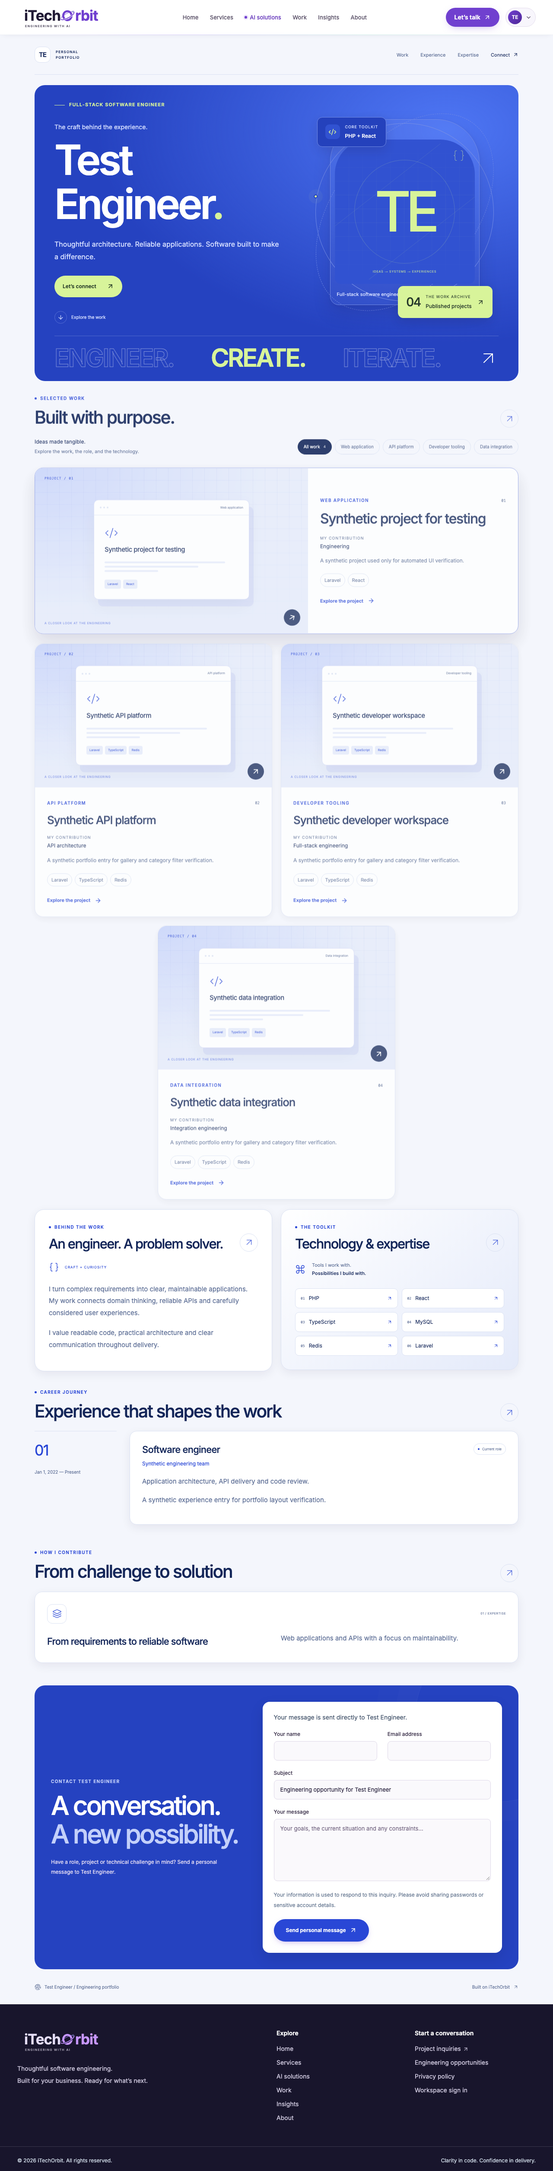
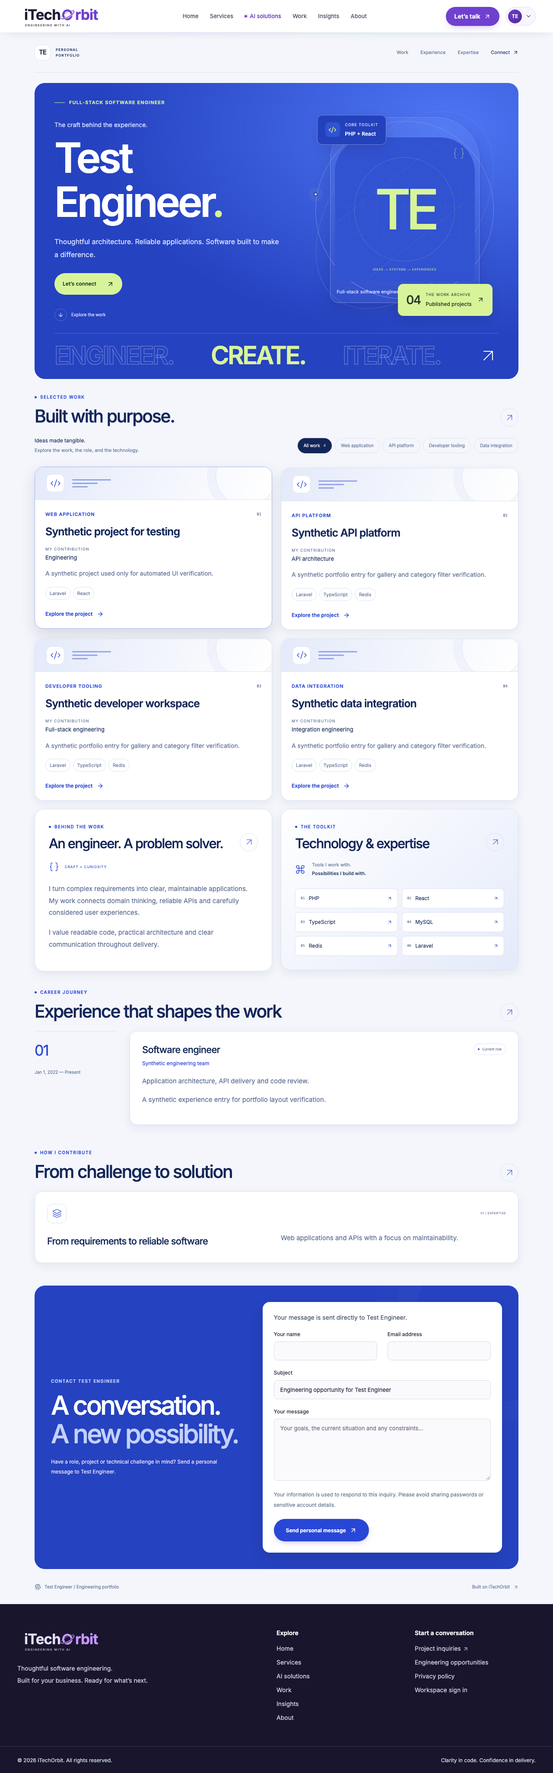
Simplify project cards and preserve compact uploaded screenshots

diff --git a/resources/css/portfolio.css b/resources/css/portfolio.css
@@ -111,16 +111,6 @@
 .pf-project:is(:hover,:focus-within) { transform:translateY(-5px); border-color:color-mix(in srgb,var(--pf-accent) 45%,var(--pf-line)); box-shadow:0 20px 42px #21143a29; }
 .pf-project-image { position:relative; display:block; aspect-ratio:1.65; overflow:hidden; background:var(--pf-soft); }
 .pf-project-image>img { height:100%; width:100%; object-fit:cover; transition:transform .4s; } .pf-project:hover .pf-project-image>img { transform:scale(1.025); }
-.pf-project-placeholder { height:100%; position:relative; display:flex; align-items:center; justify-content:center; color:var(--pf-accent); background:radial-gradient(ellipse at 0% 0%,var(--pf-tint),transparent 60%),var(--pf-soft); padding:44px 38px; }
-.pf-project-art-grid { position:absolute; inset:0; background-image:linear-gradient(color-mix(in srgb,var(--pf-accent) 7%,transparent) 1px,transparent 1px),linear-gradient(90deg,color-mix(in srgb,var(--pf-accent) 7%,transparent) 1px,transparent 1px); background-size:28px 28px; mask-image:linear-gradient(#000,transparent); }
-.pf-art-coordinate { position:absolute; top:19px; left:22px; font:8px ui-monospace,monospace; letter-spacing:.1em; }
-.pf-art-caption { position:absolute; bottom:18px; left:22px; font-size:7px; letter-spacing:.1em; opacity:.7; }
-.pf-art-window { position:relative; width:100%; max-width:360px; border:1px solid color-mix(in srgb,var(--pf-accent) 20%,var(--pf-card)); border-radius:11px; background:var(--pf-card); box-shadow:10px 16px 0 color-mix(in srgb,var(--pf-accent) 9%,transparent),0 15px 40px #2012300d; transition:transform .3s; }
-.pf-project:hover .pf-art-window { transform:translateY(-5px); }
-.pf-art-toolbar { padding:12px 13px; display:flex; align-items:center; gap:4px; border-bottom:1px solid var(--pf-line); } .pf-art-toolbar i { width:4px; height:4px; background:var(--pf-line); border-radius:50%; } .pf-art-toolbar>span { margin-left:auto; color:var(--pf-muted); font-size:7px; }
-.pf-art-body { padding:24px; } .pf-art-body>svg { margin-bottom:12px; } .pf-art-body>strong { display:block; font-size:15px; font-weight:500; letter-spacing:-.03em; color:var(--pf-ink); line-height:1.4; }
-.pf-art-lines { display:grid; gap:6px; margin-top:18px; } .pf-art-lines i { display:block; height:4px; width:90%; background:var(--pf-soft); border-radius:2px; } .pf-art-lines i:nth-child(2) { width:70%; } .pf-art-lines i:nth-child(3) { width:40%; }
-.pf-art-tech { display:flex; flex-wrap:wrap; gap:5px; margin-top:18px; } .pf-art-tech>span { padding:5px 7px; font-size:7px; border-radius:4px; background:var(--pf-soft); }
 .pf-project-arrow { position:absolute; right:18px; bottom:18px; width:38px; height:38px; display:grid; place-items:center; background:var(--pf-ink); color:var(--pf-card); border-radius:50%; transition:transform .2s; } .pf-project:hover .pf-project-arrow { transform:rotate(45deg); }
 .pf-project-content { padding:28px; align-self:center; min-width:0; } .pf-project-meta { display:flex; justify-content:space-between; align-items:center; gap:15px; } .pf-project-meta>.pf-kicker { font-size:8px; margin:0; } .pf-project-meta>span { color:var(--pf-muted); font:9px ui-monospace,monospace; }
 .pf-project h3 { font-size:26px; letter-spacing:-.045em; font-weight:500; line-height:1.2; margin-top:15px; overflow-wrap:anywhere; } .pf-project h3 a { color:inherit; }
@@ -185,7 +175,7 @@
 .pf-blueprint .pf-hero { gap:38px; padding:32px 0 36px; }
 .pf-terminal-bar { display:flex; justify-content:space-between; gap:15px; padding:20px 0 0; font:8px/1.7 ui-monospace,monospace; letter-spacing:.08em; color:var(--pf-muted); } .pf-terminal-bar>span:first-child { display:flex; align-items:center; gap:10px; } .pf-terminal-dot { width:5px; height:5px; border-radius:50%; background:var(--pf-accent); }
 .pf-blueprint :is(.pf-hero-label,.pf-kicker,.pf-project-meta,.pf-project-filters button) { font-family:ui-monospace,monospace; }
-.pf-blueprint :is(.pf-identity-card,.pf-floating-chip,.pf-monogram,.pf-portrait,.pf-project,.pf-services>article,.pf-contact,.pf-skills>span,.pf-button,.pf-split>.pf-section,.pf-experience-body,.pf-art-window) { border-radius:4px; }
+.pf-blueprint :is(.pf-identity-card,.pf-floating-chip,.pf-monogram,.pf-portrait,.pf-project,.pf-services>article,.pf-contact,.pf-skills>span,.pf-button,.pf-split>.pf-section,.pf-experience-body) { border-radius:4px; }
 .pf-blueprint .pf-orbit { border-radius:0; transform:none; border-style:dashed; } .pf-blueprint .pf-orbit-one { inset:2% -1%; } .pf-blueprint .pf-orbit-two { inset:17% -7%; }
 .pf-blueprint .pf-floating-stack { top:0; left:0; } .pf-blueprint .pf-floating-work { bottom:48px; right:-10px; }
 .pf-blueprint .pf-button:not(.pf-button-secondary) { color:#112a23; }
@@ -226,8 +216,6 @@
 .pf-editorial .pf-contact { --pf-ink:#fffdf7; }
 .pf-spotlight .pf-contact { --pf-ink:#fff; }
 .pf-contact>div>p:not(.pf-kicker),.pf-contact-note { color:var(--pf-muted); }
-.pf-projects>.pf-project:last-child:nth-child(2) { flex-basis:100%; display:grid; grid-template-columns:1fr 1fr; }
-.pf-projects>.pf-project:last-child:nth-child(2) .pf-project-image { height:100%; }
 .pf-editorial-intro>.pf-section:only-child { grid-column:1 / -1; }
 .pf-executive-grid>.pf-section:not(#experience),.pf-editorial-intro>.pf-section { align-self:start; }
 .pf-split:empty,.pf-editorial-intro:empty,.pf-executive-grid:empty { display:none; }
@@ -246,7 +234,7 @@
 .pf-hero-label { font-size:11px; } .pf-project-role { font-size:12px; } .pf-project-role>span { font-size:9px; }
 @keyframes pf-chip-float { from { transform:translateY(0); } to { transform:translateY(-7px); } }
 @keyframes pf-signal { 50% { box-shadow:0 0 0 12px color-mix(in srgb,var(--pf-accent) 5%,transparent); } }
-@keyframes pf-reveal { from { opacity:.55; translate:0 14px; } to { opacity:1; translate:0 0; } }
+@keyframes pf-reveal { from { opacity:1; translate:0 14px; } to { opacity:1; translate:0 0; } }
 /* Dark surfaces need a visible edge light as well as depth. */
 .pf-blueprint :is(.pf-project,.pf-split>.pf-section,.pf-services>article,.pf-experience-body) { box-shadow:0 8px 24px #00000038,0 0 0 1px #9be4c408; }
 .pf-blueprint .pf-project:is(:hover,:focus-within),.pf-blueprint .pf-services>article:hover,.pf-blueprint .pf-experience-body:hover { box-shadow:0 18px 36px #00000055,0 0 22px #a2efc91c; }
@@ -258,7 +246,7 @@
   .pf-floating-chip strong { font-size:10px; }
   .pf-facts { gap:30px; padding:24px; } .pf-facts-label { padding-right:22px; } .pf-facts-arrow { display:none; }
   .pf-split>.pf-section { padding:26px; } .pf-split .pf-section-heading h2 { font-size:27px; }
-  .pf-project:first-child .pf-project-content { padding:26px; } .pf-project:first-child h3 { font-size:27px; } .pf-project-placeholder { padding:42px 25px; }
+  .pf-project:first-child .pf-project-content { padding:26px; } .pf-project:first-child h3 { font-size:27px; }
   .pf-experience { grid-template-columns:145px 1fr; gap:22px; }
   .pf-experience-top { flex-wrap:wrap; } .pf-services { grid-template-columns:repeat(2,minmax(0,1fr)); }
   .pf-services>article:only-child { grid-template-columns:1fr 1.5fr; gap:20px; } .pf-services>article:only-child .pf-service-top { grid-column:1 / -1; margin-bottom:0; }
@@ -278,7 +266,7 @@
   .pf-section { padding:23px 0; } .pf-section-heading { gap:15px; margin-bottom:22px; } .pf-section-heading h2 { font-size:29px; } .pf-section-glyph { width:34px; height:34px; } .pf-section-glyph svg { width:20px; }
   .pf-split,.pf-editorial-intro,.pf-executive-grid { grid-template-columns:1fr; gap:18px; } .pf-split>.pf-section { padding:25px 22px; } .pf-split .pf-section-heading h2 { font-size:27px; } .pf-skills { gap:7px; } .pf-skills>span { font-size:11px; padding:12px 10px; }
   .pf-projects { gap:18px; } .pf-projects>.pf-project { flex-basis:100%; } .pf-project:first-child,.pf-spotlight .pf-project:first-child,.pf-editorial .pf-project,.pf-projects>.pf-project:last-child:nth-child(2) { display:block; } .pf-project-image { aspect-ratio:1.35; } .pf-project:first-child .pf-project-image { min-height:0; height:auto; } .pf-project-content,.pf-project:first-child .pf-project-content { padding:24px; } .pf-project h3,.pf-project:first-child h3 { font-size:25px; }
-  .pf-project-placeholder { padding:42px 30px; } .pf-art-body { padding:22px; } .pf-art-body>strong { font-size:14px; } .pf-art-lines { gap:5px; margin-top:13px; } .pf-art-tech { margin-top:12px; } .pf-art-caption { font-size:6px; }
+
   .pf-project-toolbar>p>span { display:none; } .pf-project-filters button { padding:9px 11px; font-size:9px; }
   .pf-experience { grid-template-columns:1fr; gap:0; } .pf-experience-index { display:flex; align-items:center; gap:18px; padding:15px 0; } .pf-experience-index>span { font-size:24px; margin:0; } .pf-date { max-width:none; } .pf-experience-body { padding:22px; } .pf-experience h3 { font-size:21px; }
   .pf-services { grid-template-columns:1fr; } .pf-services>article,.pf-services>article:only-child { display:block; padding:25px; } .pf-services>article:only-child .pf-service-top,.pf-service-top { margin-bottom:24px; } .pf-services>article:only-child h3 { margin-bottom:15px; }
@@ -288,7 +276,7 @@
   .pf-editorial-masthead>span:last-child { display:none; } .pf-editorial .pf-hero h1 { font-size:clamp(52px,15cqw,80px); } .pf-editorial .pf-hero-prelude { font-size:18px; } .pf-editorial .pf-floating-stack { left:0; } .pf-editorial-intro { gap:0; padding:0; } .pf-editorial .pf-project-image { aspect-ratio:1.3; } .pf-editorial .pf-project:nth-child(even) .pf-project-image { order:initial; } .pf-editorial .pf-project-content { padding:24px 0 0; } .pf-editorial .pf-project:first-child .pf-project-content { padding:24px 0 0; } .pf-editorial .pf-project h3,.pf-editorial .pf-project:first-child h3 { font-size:32px; }
   .pf-spotlight-stage .pf-identity-stage { width:min(100%,300px); padding:25px 18px; } .pf-spotlight-stage .pf-floating-stack { left:0; top:15px; } .pf-spotlight-stage .pf-floating-work { right:0; bottom:0; } .pf-spotlight-ticker { gap:10px; padding:18px 0 23px; } .pf-spotlight-ticker>span { font-size:clamp(16px,4.3cqw,30px); } .pf-spotlight-ticker svg { width:25px; height:25px; }
 }
-@keyframes pf-appear { from { opacity:.5; translate:0 6px; } to { opacity:1; translate:0 0; } }
+@keyframes pf-appear { from { opacity:1; translate:0 6px; } to { opacity:1; translate:0 0; } }
 @media(prefers-reduced-motion:reduce) { .portfolio-view * { animation:none !important; transition:none !important; } }
 
 /* Personal contact belongs to the portfolio owner, independently of the agency form. */
@@ -310,3 +298,44 @@
 .pf-contact-page { min-height:100vh; }
 .pf-contact-page .pf-personal-contact { margin-top:40px; }
 @container(max-width:800px) { .pf-personal-contact { grid-template-columns:1fr; gap:28px; } .pf-contact-form { width:100%; padding:22px; } .pf-contact-page .pf-personal-contact { margin-top:24px; } }
+
+/* A missing screenshot is a compact accent, never a second copy of the project. */
+.pf-projects>.pf-project.is-text-project { display:flex; flex-direction:column; flex-basis:calc(50% - 10px); }
+.pf-projects>.pf-project.is-text-project:only-child { flex-basis:100%; max-width:760px; }
+.pf-project-accent { position:relative; display:flex; align-items:center; gap:18px; height:76px; flex-shrink:0; padding:16px 26px; overflow:hidden; background:linear-gradient(110deg,var(--pf-soft),var(--pf-card)); border-bottom:1px solid var(--pf-line); }
+.pf-project-accent-icon { display:grid; place-items:center; width:42px; height:42px; border:1px solid var(--pf-line); background:var(--pf-card); border-radius:12px; color:var(--pf-accent); flex-shrink:0; }
+.pf-project-accent-lines { display:grid; gap:5px; width:90px; opacity:.45; }
+.pf-project-accent-lines>i { height:3px; border-radius:2px; background:var(--pf-accent); }
+.pf-project-accent-lines>i:nth-child(2) { width:65%; } .pf-project-accent-lines>i:last-child { width:40%; }
+.pf-project-accent-orbit { position:absolute; width:140px; height:140px; border:1px solid var(--pf-line); border-radius:50%; right:-10px; top:-50px; box-shadow:0 0 0 20px color-mix(in srgb,var(--pf-accent) 4%,transparent); }
+.pf-project.is-text-project .pf-project-content { align-self:stretch; display:flex; flex-direction:column; flex:1; padding:24px; }
+.pf-project.is-text-project h3,.pf-project.is-text-project:first-child h3 { font-size:25px; font-weight:600; letter-spacing:-.035em; line-height:1.25; color:var(--pf-ink); }
+.pf-project.is-text-project .pf-project-excerpt { font-size:14px; line-height:1.8; color:var(--pf-muted); }
+.pf-project.is-text-project .pf-project-role { font-size:13px; }
+.pf-project.is-text-project .pf-project-meta>.pf-kicker { font-size:11px; letter-spacing:.08em; }
+.pf-project.is-text-project .pf-text-link { margin-top:auto; padding-top:22px; font-size:12px; }
+.pf-project.is-text-project .pf-project-tags { margin-bottom:2px; }
+.pf-editorial .pf-projects>.pf-project.is-text-project { flex-basis:100%; max-width:none; }
+.pf-editorial .pf-project.is-text-project h3 { font-weight:400; font-size:30px; }
+@container(max-width:680px) {
+  .pf-projects>.pf-project.is-text-project { flex-basis:100%; }
+  .pf-project-accent { height:64px; padding:12px 22px; }
+  .pf-project-accent-icon { width:36px; height:36px; border-radius:9px; }
+  .pf-project.is-text-project .pf-project-content { padding:22px; }
+  .pf-project.is-text-project h3,.pf-project.is-text-project:first-child h3 { font-size:24px; }
+}
+
+/* Uploaded screenshots remain genuine, uncropped, clickable project thumbnails. */
+.pf-projects>.pf-project.has-project-image { display:flex; flex-direction:column; flex-basis:calc(50% - 10px); }
+.pf-projects>.pf-project.has-project-image:only-child { flex-basis:100%; max-width:760px; }
+.pf-project.has-project-image .pf-project-image { height:190px; min-height:0; aspect-ratio:auto; width:100%; flex-shrink:0; border-bottom:1px solid var(--pf-line); background:var(--pf-soft); }
+.pf-project.has-project-image .pf-project-image>img { object-fit:contain; padding:12px; }
+.pf-project.has-project-image .pf-project-content { display:flex; flex-direction:column; flex:1; align-self:stretch; padding:24px; }
+.pf-project.has-project-image .pf-project-arrow { width:30px; height:30px; right:12px; bottom:12px; }
+.pf-project.has-project-image .pf-project-arrow svg { width:16px; height:16px; }
+.pf-project.has-project-image .pf-text-link { margin-top:auto; padding-top:22px; }
+.pf-editorial .pf-projects>.pf-project.has-project-image { flex-basis:100%; max-width:none; }
+@container(max-width:680px) { .pf-projects>.pf-project.has-project-image { flex-basis:100%; } .pf-project.has-project-image .pf-project-image { height:160px; } }
+
+.pf-project.has-project-image h3,.pf-project.has-project-image:first-child h3 { font-size:25px; line-height:1.25; color:var(--pf-ink); }
+.pf-project.has-project-image .pf-project-excerpt { font-size:14px; line-height:1.8; }

diff --git a/resources/js/components/portfolio/PortfolioView.tsx b/resources/js/components/portfolio/PortfolioView.tsx
@@ -51,8 +51,8 @@ function About({ profile }: { profile: Profile }) {
 function Experience({ profile }: { profile: Profile }) {
   return profile.experiences.length ? <Section id="experience" label="Career journey" title="Experience that shapes the work"><div className="pf-timeline">{profile.experiences.map((experience, i) => <article key={i} className="pf-experience"><div className="pf-experience-index"><span>{String(i + 1).padStart(2, '0')}</span><p className="pf-date">{experience.join_date ? dateLabel(experience.join_date) : ''}{experience.join_date && ' — '}{experience.resign_date ? dateLabel(experience.resign_date) : 'Present'}</p></div><div className="pf-experience-body"><div className="pf-experience-top"><div><h3>{experience.designation}</h3><p className="pf-organization">{experience.organization}</p></div>{!experience.resign_date && <span className="pf-current-role"><span />Current role</span>}</div><Rich html={experience.responsibilities} /><Rich html={experience.descriptions} /></div></article>)}</div></Section> : null;
 }
-function ProjectVisual({ project, index }: { project: Project; index: number }) {
-  return <div className="pf-project-placeholder" aria-hidden="true"><div className="pf-project-art-grid" /><span className="pf-art-coordinate">PROJECT / {String(index + 1).padStart(2, '0')}</span><div className="pf-art-window"><div className="pf-art-toolbar"><i /><i /><i /><span>{project.category || 'Engineering'}</span></div><div className="pf-art-body"><Code2 size={32} strokeWidth={1.2} /><strong>{project.name}</strong><div className="pf-art-lines"><i /><i /><i /></div><div className="pf-art-tech">{project.technologies.slice(0, 3).map(technology => <span key={technology}>{technology}</span>)}</div></div></div><span className="pf-art-caption">A CLOSER LOOK AT THE ENGINEERING</span></div>;
+function ProjectVisual() {
+  return <div className="pf-project-accent" aria-hidden="true"><span className="pf-project-accent-icon"><Code2 size={25} strokeWidth={1.4} /></span><span className="pf-project-accent-lines"><i /><i /><i /></span><span className="pf-project-accent-orbit" /></div>;
 }
 function Projects({ projects }: { projects: Project[] }) {
   const [category, setCategory] = useState<string | null>(null);
@@ -61,7 +61,7 @@ function Projects({ projects }: { projects: Project[] }) {
   return projects.length ? <Section id="projects" label="Selected work" title="Built with purpose.">
     <div className="pf-project-toolbar"><p>Ideas made tangible.<span> Explore the work, the role, and the technology.</span></p>{categories.length > 1 && <div className="pf-project-filters" role="group" aria-label="Filter portfolio projects"><button type="button" aria-pressed={category === null} onClick={() => setCategory(null)}>All work <span>{projects.length}</span></button>{categories.map(item => <button key={item} type="button" aria-pressed={category === item} onClick={() => setCategory(item)}>{item}</button>)}</div>}</div>
     <p className="sr-only" role="status">{visible.length} portfolio projects shown</p>
-    <div className="pf-projects">{visible.map(project => <article key={project.id} className="pf-project"><a className="pf-project-image" href={project.url} aria-label={`View ${project.name}`}>{project.image ? <img src={project.image} width={720} height={480} loading="lazy" alt={`${project.name} project screenshot`} /> : <ProjectVisual project={project} index={projects.indexOf(project)} />}<span className="pf-project-arrow"><ArrowUpRight size={20} /></span></a><div className="pf-project-content"><div className="pf-project-meta"><p className="pf-kicker">{project.category || 'Engineering project'}</p><span>{String(projects.indexOf(project) + 1).padStart(2, '0')}</span></div><h3><a href={project.url}>{project.name}</a></h3>{project.role && <p className="pf-project-role"><span>MY CONTRIBUTION</span>{project.role}</p>}<p className="pf-project-excerpt">{project.excerpt}</p><div className="pf-project-tags">{project.technologies.map(technology => <span key={technology}>{technology}</span>)}</div><a className="pf-text-link" href={project.url}>Explore the project <ArrowRight size={16} /></a></div></article>)}</div>
+    <div className="pf-projects">{visible.map(project => <article key={project.id} className={`pf-project ${project.image ? 'has-project-image' : 'is-text-project'}`}>{project.image ? <a className="pf-project-image" href={project.url} aria-label={`View ${project.name}`}><img src={project.image} width={720} height={480} loading="lazy" alt={`${project.name} project screenshot`} /><span className="pf-project-arrow"><ArrowUpRight size={20} /></span></a> : <ProjectVisual /> }<div className="pf-project-content"><div className="pf-project-meta"><p className="pf-kicker">{project.category || 'Engineering project'}</p><span>{String(projects.indexOf(project) + 1).padStart(2, '0')}</span></div><h3><a href={project.url}>{project.name}</a></h3>{project.role && <p className="pf-project-role"><span>MY CONTRIBUTION</span>{project.role}</p>}<p className="pf-project-excerpt">{project.excerpt}</p><div className="pf-project-tags">{project.technologies.map(technology => <span key={technology}>{technology}</span>)}</div><a className="pf-text-link" href={project.url}>Explore the project <ArrowRight size={16} /></a></div></article>)}</div>
   </Section> : null;
 }
 function Services({ profile }: { profile: Profile }) {

diff --git a/resources/js/components/admin/ResourceForm.tsx b/resources/js/components/admin/ResourceForm.tsx
@@ -45,7 +45,7 @@ export function ResourceForm({ resource, title, action, fields, options, record 
     {message && <div className="workspace-form-notice"><Notice message={message} error={failed} onDismiss={() => setMessage('')} /></div>}
     <section className="workspace-card workspace-form-main"><div className="workspace-card-heading"><span className="workspace-card-icon"><FilePenLine size={20} /></span><div><h2>{action === 'create' ? 'Create a new record' : 'Record details'}</h2><p>Make your changes below. Required fields are marked *.</p></div></div><div className="workspace-form-grid">{fields.filter(field => !['file', 'checkbox'].includes(field.type)).map(renderField)}</div></section>
     <aside className="workspace-form-aside">{settings.length > 0 && <section className="workspace-card"><div className="workspace-card-heading"><Settings2 size={19} /><div><h2>Visibility & settings</h2><p>Choose how this record is used.</p></div></div><div className="workspace-toggle-list">{settings.map(item => <div key={item.name}><label><span>{item.label}</span><input id={item.name} type="checkbox" role="switch" checked={values[item.name] === true || Number(values[item.name]) === 1} onChange={event => setValue(item.name, event.target.checked)} /></label>{fieldErrors(item.name).length > 0 && <p role="alert" className="form-error">{fieldErrors(item.name).join(' ')}</p>}</div>)}</div></section>}
-      {media.length > 0 && <section className="workspace-card"><div className="workspace-card-heading"><ImagePlus size={19} /><div><h2>Media & attachments</h2><p>Keep your content looking its best.</p></div></div>{media.map(item => <div key={item.name} className="workspace-upload"><label className="form-label" htmlFor={item.name}>{item.label}</label><Input id={item.name} type="file" accept={item.accept} onChange={event => { const file = event.target.files?.[0]; if (file) setFiles(previous => ({ ...previous, [item.name]: file })); }} aria-invalid={!!fieldErrors(item.name).length} aria-describedby={`${item.name}-error`} /><small>{files[item.name]?.name ?? (item.accept?.includes('.pdf') ? 'PDF document' : 'JPG, PNG or WebP image')}</small><p id={`${item.name}-error`} className="form-error">{fieldErrors(item.name).join(' ')}</p></div>)}{['projects', 'basics'].includes(resource) && Object.entries(record).filter(([key, value]) => key.endsWith('_path') && value).map(([key, value]) => <div key={key} className="workspace-existing-media"><span>{key.replace(/_/g, ' ')}</span><small>{String(value)}</small><button type="button" disabled={busy} onClick={() => void removeMedia(key)}>Remove file</button></div>)}</section>}
+      {media.length > 0 && <section className="workspace-card"><div className="workspace-card-heading"><ImagePlus size={19} /><div><h2>Media & attachments</h2><p>Keep your content looking its best.</p></div></div>{media.map(item => <div key={item.name} className="workspace-upload"><label className="form-label" htmlFor={item.name}>{item.label}</label><Input id={item.name} type="file" accept={item.accept} onChange={event => { const file = event.target.files?.[0]; if (file) setFiles(previous => ({ ...previous, [item.name]: file })); }} aria-invalid={!!fieldErrors(item.name).length} aria-describedby={`${item.name}-error`} /><small>{files[item.name]?.name ?? (item.accept?.includes('.pdf') ? 'PDF document' : 'JPG, PNG or WebP image')}</small>{resource === 'projects' && item.name === 'uploaded_image' && <p className="text-xs leading-6 text-slate-600">Upload a real project screenshot. It appears as a compact, uncropped thumbnail in your portfolio. Leave blank for a simple visual accent.</p>}<p id={`${item.name}-error`} className="form-error">{fieldErrors(item.name).join(' ')}</p></div>)}{['projects', 'basics'].includes(resource) && Object.entries(record).filter(([key, value]) => key.endsWith('_path') && value).map(([key, value]) => <div key={key} className="workspace-existing-media"><span>{key.replace(/_/g, ' ')}</span><small>{String(value)}</small><button type="button" disabled={busy} onClick={() => void removeMedia(key)}>Remove file</button></div>)}</section>}
       <div className="workspace-form-tip"><span>Good to know</span><p>Your changes are saved when you select Save changes. Review visibility settings before publishing.</p></div></aside>
     <div className="workspace-form-actions"><span>{action === 'edit' ? `Editing record #${record.id}` : 'Changes are not saved yet.'}</span><div><Button asChild variant="outline"><Link href={`/${resource}`}>Cancel</Link></Button><Button disabled={busy}>{busy ? <LoaderCircle size={17} className="animate-spin" /> : <Save size={17} />}{busy ? 'Saving…' : 'Save changes'}</Button></div></div>
   </fieldset></form>;

diff --git a/tests/browser/website.spec.ts b/tests/browser/website.spec.ts
@@ -311,8 +311,17 @@ test('portfolio template studio previews five layouts and persists the public se
     await expect(page.locator('.pf-project')).toHaveCount(4);
     await expect(page.getByRole('navigation', { name: 'Portfolio sections' }).getByRole('link', { name: 'Work', exact: true })).toHaveAttribute('href', '#projects');
     const gallery = await page.locator('.pf-projects').boundingBox();
-    const finalCard = await page.locator('.pf-project').last().boundingBox();
-    expect(Math.abs((gallery!.x + gallery!.width / 2) - (finalCard!.x + finalCard!.width / 2))).toBeLessThan(2);
+    const finalRow = await page.locator('.pf-projects').evaluate(grid => {
+      const boxes = [...grid.querySelectorAll<HTMLElement>('.pf-project')].map(card => ({ y: card.offsetTop, left: card.getBoundingClientRect().left, right: card.getBoundingClientRect().right }));
+      const finalY = Math.max(...boxes.map(box => box.y));
+      const row = boxes.filter(box => Math.abs(box.y - finalY) < 2);
+      return { left: Math.min(...row.map(box => box.left)), right: Math.max(...row.map(box => box.right)) };
+    });
+    expect(Math.abs((gallery!.x + gallery!.width / 2) - (finalRow.left + finalRow.right) / 2)).toBeLessThan(2);
+    const projectCard = page.locator('.pf-project').first();
+    expect((await projectCard.innerText()).split('Synthetic project for testing')).toHaveLength(2);
+    expect(await projectCard.locator('.pf-project-accent').evaluate(element => element.getBoundingClientRect().height)).toBeLessThanOrEqual(80);
+    await projectCard.screenshot({ path: testInfo.outputPath(`project-card-${name.toLowerCase()}.png`) });
     if (!isMobile) {
       const card = page.locator('.pf-project').first();
       const restingShadow = await card.evaluate(element => getComputedStyle(element).boxShadow);
@@ -378,4 +387,29 @@ test('portfolio contact belongs to its owner and supports personal inquiries', a
   await expect(page.getByRole('link', { name: 'iTechOrbit home' })).toHaveCount(0);
   expect(await page.evaluate(() => document.documentElement.scrollWidth <= window.innerWidth)).toBeTruthy();
   await page.screenshot({ path: testInfo.outputPath('portfolio-personal-contact.png'), fullPage: true });
+});
+
+test('uploaded project screenshots appear as compact uncropped portfolio thumbnails', async ({ page, isMobile }, testInfo) => {
+  await page.goto('/login'); await page.getByLabel('Email address').fill('admin@example.test'); await page.getByLabel('Password', { exact: true }).fill('Browser-test-password-42'); await page.getByRole('button', { name: 'Sign in', exact: true }).click(); await expect(page).toHaveURL(/\/home$/);
+  try {
+    await page.goto('/projects/1/edit');
+    await page.getByLabel('Project screenshot', { exact: true }).setInputFiles('docs/assets/business-inquiry-email-desktop.png');
+    await page.getByRole('button', { name: 'Save changes', exact: true }).click();
+    await expect(page).toHaveURL(/\/projects$/);
+    await page.goto('/portfolios/TESTPROFILE');
+    const card = page.locator('.pf-project').filter({ hasText: 'Synthetic project for testing' });
+    const image = card.getByRole('img');
+    await expect(image).toBeVisible();
+    await expect.poll(() => image.evaluate((node: HTMLImageElement) => node.complete && node.naturalWidth > 0)).toBeTruthy();
+    await expect(image).toHaveCSS('object-fit', 'contain');
+    expect(await card.locator('.pf-project-image').evaluate(node => node.getBoundingClientRect().height)).toBeLessThanOrEqual(isMobile ? 160 : 190);
+    await expect(card.locator('.pf-project-accent')).toHaveCount(0);
+    await card.screenshot({ path: testInfo.outputPath('uploaded-project-thumbnail.png') });
+    await card.getByRole('link', { name: 'View Synthetic project for testing', exact: true }).click();
+    await expect(page).toHaveURL(/\/work\/1$/);
+  } finally {
+    const token = await page.locator('meta[name="csrf-token"]').getAttribute('content');
+    const cleanup = await page.request.post('/project-file-delete', { headers: { 'X-CSRF-TOKEN': token ?? '', Accept: 'application/json' }, data: { id: 1, field_name: 'image_path' } });
+    expect(cleanup.ok()).toBeTruthy();
+  }
 });

diff --git a/config/admin.php b/config/admin.php
@@ -67,7 +67,7 @@ return [
             ['name' => 'project_url', 'label' => 'Project URL', 'type' => 'url', 'required' => false],
             ['name' => 'order_number', 'label' => 'Order number', 'type' => 'number', 'required' => false],
             ['name' => 'about_project', 'label' => 'About project', 'type' => 'richtext', 'required' => true],
-            ['name' => 'uploaded_image', 'label' => 'Cover image', 'type' => 'file', 'required' => false, 'accept' => '.jpg,.jpeg,.png,.webp'],
+            ['name' => 'uploaded_image', 'label' => 'Project screenshot', 'type' => 'file', 'required' => false, 'accept' => '.jpg,.jpeg,.png,.webp'],
             ['name' => 'is_checked', 'label' => 'Published / active', 'type' => 'checkbox', 'required' => false],
         ],
     ],

diff --git a/docs/PORTFOLIO_TEMPLATES.md b/docs/PORTFOLIO_TEMPLATES.md
@@ -12,7 +12,7 @@ The existing `/portfolios` and `/portfolios/{key}` pages now render a saved user
 | Editorial | Ivory engineering journal, oversized serif type, orange annotations, arch identity and alternating project stories. |
 | Spotlight | Electric-blue identity stage, lime details, oversized outline typography and a visual work mosaic. |
 
-Missing images use an initial-based identity card or neutral engineering artwork rendered in CSS/SVG; no client logos, claims, testimonials or achievements are fabricated. Empty sections are omitted. The first project occupies a complete showcase row. Symbolic project artwork displays the actual project name and technology tags; it is decorative artwork, not a fabricated product screenshot. Existing active content appears in all five templates, including introduction, objective, additional information, skills, experience, services, projects, social links and public CVs.
+Missing images use an initial-based identity card or neutral engineering artwork rendered in CSS/SVG; no client logos, claims, testimonials or achievements are fabricated. Empty sections are omitted. Project cards form centered rows. When no screenshot is uploaded, a compact text-free visual accent replaces the former large generated mockup, so the title/category/technologies are shown only in the content section. Uploaded screenshots remain genuine, uncropped previews and link to the full project detail page. Existing active content appears in all five templates, including introduction, objective, additional information, skills, experience, services, projects, social links and public CVs.
 
 ## User workflow
 
@@ -60,7 +60,7 @@ For rollback, revert the feature's code/build and restart SSR. The nullable colu
 - PHP: 44 tests / 1,040 assertions passed, including five template tests and the missing-column regression.
 - Frontend: 3 unit tests, TypeScript, ESLint, Pint and client/SSR builds passed.
 - All 30 desktop/mobile browser regressions passed, including private preview/save/reload and public SSR checks for every template.
-- No Lighthouse scores measured for this change. Portfolio view JS is about 17.2 KB / 5 KB gzip and template CSS about 36.6 KB / 7.6 KB gzip in the production build; these assets are shared between the public portfolio and private chooser.
+- No Lighthouse scores measured for this change. Portfolio view JS is about 16.8 KB / 5 KB gzip and shared portfolio CSS about 39.3 KB / 7.9 KB gzip in the production build; these assets are shared between the public portfolio and private chooser.
 - The 2026-10-16 art-direction refresh passed all 30 browser regressions, including keyboard/category filtering and all five saved layouts. Reduced-motion preferences disable gallery transitions/animations, and container sizing keeps private previews responsive. No new dependencies or schema changes were introduced by this refresh.
 - Visual review uses synthetic profiles only. Screenshots below contain no application user data.
 
@@ -85,3 +85,15 @@ Browser coverage now includes five sparse synthetic profiles, incomplete gallery
 Follow-up verification: all 30 browser tests passed, including the added checks on each template. PHP: 44 tests / 1,040 assertions; frontend: 3 tests; TypeScript, lint, Pint and client/SSR builds pass. Additional captures: [sparse desktop](assets/portfolio-sparse-desktop.png), [sparse mobile](assets/portfolio-sparse-mobile.png).
 
 Portfolio contact now uses an inline personal form and a dedicated owner page, with owner-only notification delivery. The two inquiry email templates include full HTML/text message bodies. See [CONTACT_AND_EMAIL.md](CONTACT_AND_EMAIL.md) for updated routes, recipient rules, previews and verification.
+
+## Project screenshot and card hierarchy — 2026-10-16
+
+The supplied screenshot exposed a duplicated title and tags inside a generated mockup above the actual project content. That fallback has been replaced by a small decorative strip: 76px desktop, 64px mobile, without repeating any project text. Description and contribution text are larger, and card content follows one clear category → title → contribution → description → technology → action hierarchy.
+
+Real screenshots are preserved. Upload a JPG, PNG or WebP (up to 2 MB) through **Admin → Projects → Create/Edit → Project screenshot**, then save the active project. The existing validated image storage path feeds the portfolio. Image previews use `object-fit: contain`, at 190px desktop / 160px mobile, and remain clickable to project details where the full screenshot is available. No existing media files or database records were removed by this presentation change.
+
+Browser coverage now exercises a real screenshot upload through the admin form, verifies the image loads uncropped at the compact height, follows the project link, and cleans up only its own synthetic upload. Card checks also verify a single displayed title, compact empty-image accents, centered rows, contrast, and template selection on desktop/mobile.
+
+Final browser result: 34 passed. Review: [card desktop](assets/project-card-desktop.png), [card mobile](assets/project-card-mobile.png), [uploaded thumbnail desktop](assets/project-screenshot-desktop.png), [uploaded thumbnail mobile](assets/project-screenshot-mobile.png). Upload verification uses a synthetic email preview image, not a claimed client project screenshot.
+
+Entrance motion keeps text fully opaque from the first frame; only its position changes. This avoids the low-contrast text seen during an opacity fade.

diff --git a/docs/COMPLETION_REPORT.md b/docs/COMPLETION_REPORT.md
@@ -171,3 +171,11 @@ Final browser result for this correction: 30 passed. Updated full-content and sp
 Implemented inline portfolio-owner forms and standalone personal contact pages, with legacy-link redirects. Personal submissions resolve the active/public owner from the URL, save under that user and queue email only to them. Personal emails identify the portfolio owner; business emails retain iTechOrbit branding. Both templates now include a sender/subject card, full escaped message, reply/inbox actions, visitor Reply-To and plain-text alternative. No `.env` changes, migration or dependencies were needed.
 
 Verified 48 PHP tests / 1,089 assertions, 3 frontend tests, types/lint, Pint, client/SSR builds, Blade compilation and all 32 browser checks. Reviewed synthetic desktop/mobile contact and email captures. No external emails were sent; configured SMTP delivery was not tested. Details and rollback: [CONTACT_AND_EMAIL.md](CONTACT_AND_EMAIL.md).
+
+## Project card hierarchy and uploaded screenshots — 2026-10-16
+
+Removed duplicated generated mockup content from screenshot-less portfolio cards. The fallback is now a compact text-free accent, with clearer typography and a single project-content hierarchy. Real uploaded screenshots remain visible as small uncropped previews linked to the full project page. Renamed the existing admin image field to Project screenshot and added usage guidance; existing upload validation and storage remain authoritative. No environment, schema or media-record changes were required.
+
+PHP (48 tests / 1,089 assertions), 3 frontend tests, TypeScript, lint, Pint and production client/SSR builds pass. New browser coverage performs an actual admin screenshot upload and verifies thumbnail loading, dimensions, contain sizing and detail navigation with synthetic-data cleanup. Card regression coverage checks title uniqueness, compact accents, centered rows and contrast across five templates.
+
+Final full browser regression result for the project card/upload correction: 34 passed. Desktop/mobile card and upload captures reviewed and saved.

diff --git a/docs/IMPLEMENTATION_CHECKLIST.md b/docs/IMPLEMENTATION_CHECKLIST.md
@@ -212,3 +212,13 @@ Status legend: [x] implemented/verified, [ ] pending. Updated continuously; inco
 - [x] Modernize personal and business notification emails with complete escaped message bodies, Reply-To, reply/inbox actions and plain-text alternatives.
 - [x] Verify 48 PHP tests / 1,089 assertions, 3 frontend tests, types, lint, Pint, client/SSR builds and Blade compilation. All 32 browser checks pass.
 - [x] Review/save desktop/mobile personal contact and both email renders using synthetic content; document behavior, deployment and rollback in CONTACT_AND_EMAIL.md. No real email sent, database migration or environment change.
+
+## Project card hierarchy correction — 2026-10-16
+- [x] Inspect supplied screenshot: the apparent duplication comes from a generated mockup repeating the project title/category/technologies above the real content.
+- [x] Replace missing-image mockups with a compact, text-free visual accent (76px desktop / 64px mobile); preserve actual screenshot previews.
+- [x] Give project content one clear hierarchy, larger descriptive text and balanced text-led rows across all templates.
+- [x] Preserve real screenshot upload/display with compact, uncropped thumbnails; clarify the admin Project screenshot field.
+- [x] Verify all 34 browser checks, including real upload/save/display/detail navigation and test-image cleanup, plus title uniqueness, accent height, row balance, contrast and five-template selection.
+- [x] Verify 48 PHP tests / 1,089 assertions, 3 frontend tests, TypeScript, lint, Pint and builds. Review/save compact card and actual-upload captures on desktop/mobile.
+
+- [x] Keep text fully opaque during entrance motion; rebuild and recheck all 4 affected desktop/mobile template and uploaded-thumbnail scenarios after this final readability correction.
